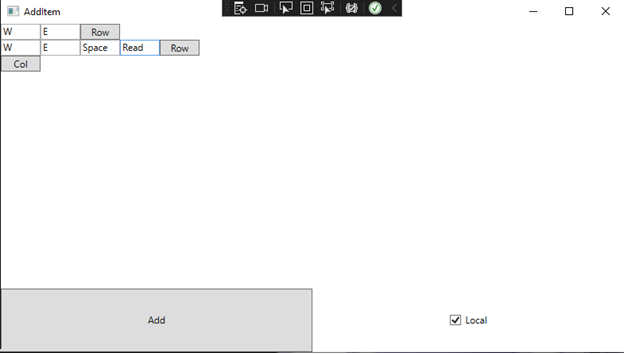
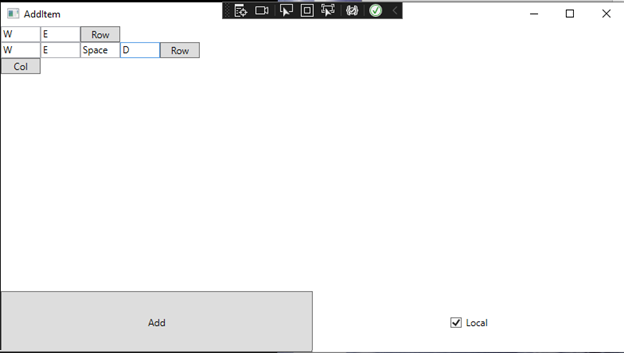
Document added

diff --git a/Document/FullGuide.md b/Document/FullGuide.md
@@ -1,0 +1,263 @@
+# My Asisstent повниий гайд
+---
+
+
+## _Команди_  (**Command**)
+---
+
+Як і було вказано в кроткому гайду ця сторінка використовується для  додання команд трігерів та задання певної логіки для них.
+
+
+![Загальний вигляд вікна:](https://github.com/MaksBerkutov/MyAsistentNew/blob/master/ImageGit/CodeProject.png)
+
+Кнопка “*AddMenu*” використовується для виклику меню “_Додавання команд_”.
+Розглянемо синтаксис виводу команд:
+
+![синтаксис виводу команд:](https://github.com/MaksBerkutov/MyAsistentNew/blob/master/ImageGit/CodeProjectOutputInfo.png)
+
+## Додавання команд
+---
+
+![Загальний вигляд вікна:](https://github.com/MaksBerkutov/MyAsistentNew/blob/master/ImageGit/CreateCommandBox.png)
+
+Блок **Main** дає змогу керувати основними функціями як:
+-	Додати команду тріггер.
+-	Видалити (***Delete***) вибрану дію в ***AllCommand***.
+-	Додати (***Add***) додати команду та дії для неї.
+-	Закрити(***Close***) закрити вікно без збереження. 
+
+Блок **Activity** це всі можливі дії на команду:
+-	***Arduinos*** послати команду на ардуино.
+![Вигляд вікна](https://github.com/MaksBerkutov/MyAsistentNew/blob/master/ImageGit/Arduinos.png)
+
+1. тут будуть відображатись всі команди для ардуіно 
+2.  тут буде потрібно вибрати плату зі списку всіх під’єднаних плат.
+3.  зберегти. 
+-	**ArduinoReadDate** май же те саме але ще отримуємо результат який буде промовляти програма.
+![Вигляд вікна](https://github.com/MaksBerkutov/MyAsistentNew/blob/master/ImageGit/ArduinoReadDate.png)
+
+В текстове поле потрібно написати текст який повинна промовити програма але замість значень які прийдуть з модуля треба написати назву змінної у `квадратних дужках`!
+А також обрати плату і команду в правому боці так як і в  ***Arduinos***.
+- ***Path*** запуск конкретної програми.
+
+![Вигляд вікна](https://github.com/MaksBerkutov/MyAsistentNew/blob/master/ImageGit/Path.png)
+
+В поле для вводу тексту можливо ввести путь до файлу або ж натиснути на кнопку `Pаth` яка відкриє файловий діалог для вибору файлу .
+
+Перемикач “***Local Machine***” встановлю буде запускатися ця програма на комп’ютері на якому зараз встановлений сервер або ж на віддаленому комп’ютері.
+
+-	***Keyboard*** створений для емуляції клавіатури.
+
+![Вигляд вікна](https://github.com/MaksBerkutov/MyAsistentNew/blob/master/ImageGit/Keyboard1.png)
+
+При натисканні на Row буде додаватися одна клітина по горизонталі. 
+
+При натисканні на Cow буде додаватися одна клітина по вертикалі. 
+
+Клавіші будуть об’єднуватися в клітини по горизонталі і йти далі поки не закінчяться елементи. Для додавання треба два рази клацнути по пустому полю, а після того як з’явиться текс `Read` натиснути на клавішу яку ви хочете записати нижче приклад.
+
+
+![Вигляд вікна](https://github.com/MaksBerkutov/MyAsistentNew/blob/master/ImageGit/Keyboard2.png)
+![Вигляд вікна](https://github.com/MaksBerkutov/MyAsistentNew/blob/master/ImageGit/Keyboard3.png)
+![Вигляд вікна](https://github.com/MaksBerkutov/MyAsistentNew/blob/master/ImageGit/Keyboard4.png)
+
+Для перезапису потрібно також клацнути два рази. Для видалення натиснути раз лівою кнопку миші.
+- ***Script*** (У розробці)
+- ***Voice*** використовуеться для озвучки асистентом.
+
+![Вигляд вікна](https://github.com/MaksBerkutov/MyAsistentNew/blob/master/ImageGit/Voice.png)
+
+Все просто, в текстове поле вводимо команду яку промовить асистент.
+
+Якщо в тексті буде `$` то це отримати поточну дату. 
+
+Якщо в тексті буде `@` то це отримати поточний час. 
+
+## _Журнал_ (**Logs**)
+---
+Журнал введеться для збереження та фіксування основних помилок попереджень та меседжів. Являє собою щось накштаут консолі або термінала. Має функціонал для написання команд, але базові команди як були так і залишилися можливо з оновленням буде і підрамки більшої кількості програм.
+
+![Вигляд вікна](https://github.com/MaksBerkutov/MyAsistentNew/blob/master/ImageGit/Logs.png)
+
+Перший блок це дата та час, далі меседж після цього статус.
+
+## _Скрипти_ (**Script**)
+---
+
+Дуже складний механізм, принципом якого є інтегрувати сторонній код в програму під час її виконання. У редакторі є блок Файл який має пункти :
+-	`Новий проект` створення проекту.
+-	`Відкрити проект` відкрити існуючий проект, а також показує 5 останніх створених файлів.
+-	`Зберегти` збереження коду.
+
+А також блок Отладка:
+-	`Зібрати` спроба скомпілювати файл.
+-	`Запустити` спроба запуска коду.
+
+![Вигляд вікна](https://github.com/MaksBerkutov/MyAsistentNew/blob/master/ImageGit/Script.png)
+
+![Вигляд вікна](https://github.com/MaksBerkutov/MyAsistentNew/blob/master/ImageGit/CreateScript.png)
+
+## _Налаштування_ (**Settings**)
+---
+
+### _Головні налаштування_ (**Main**)
+
+- Перший випадаючи список дає змогу вибрати язик для прослухування речі. 
+- Другий дає змогу вибрати список для відтворення голосу. 
+- Перший перемикач (Озвучивать логи) відповідає за чи буде промовляти записи з журналу. 
+- Другий перемикач фактично робить теж саме але буде промовляти тільки меседжі.
+- Список номер 5 вказується те яка фразу буде промовлятися (якщо ввімкнений перемикач) 
+- Під полями 6 та 7 вказується час через який буду збереження та скількі сервер буде чекати відповіді від модуля (чим слабший зв'язок тим більше треба буде чекати). 
+
+![Вигляд вікна](https://github.com/MaksBerkutov/MyAsistentNew/blob/master/ImageGit/Settings_Main.png)
+
+### _Налаштування мережі_ (**Network**)
+
+Блок “***Server Settings***” дозволяє налаштувати Ip адрес та порт на який будуть підключатися модулі та комп’ютери. Для коректного вибору Ip адресу скористайтеся командою `ipconfig` в консолі ось приклад:
+
+![Вигляд вікна](https://github.com/MaksBerkutov/MyAsistentNew/blob/master/ImageGit/ipconfig.png)
+
+В виводі шукаємо наш адаптер по якому відбувається підключення до мережі. І дивимось на **IPv4** адресу це і є наш Ip адрес в локальній мережі. Його і треба вказати у програмі.
+Після вибору Ip адресу треба вписати порт він може бути будь яким але він повинен буду вільним.
+
+Якщо у вас більше одного фізичного адаптера треба вибрати у випадючому списку коректний Ip адрес який збіжиться з консольним. 
+
+![Вигляд вікна](https://github.com/MaksBerkutov/MyAsistentNew/blob/master/ImageGit/Settings_Network1.png)
+
+![Вигляд вікна](https://github.com/MaksBerkutov/MyAsistentNew/blob/master/ImageGit/Settings_Network1.png)
+
+Блок Мережеві налаштування (**Network Settings**). 
+
+Нажаль в станом на 12.6.2023 _не_ _працює_ але в майбутньому дозволить створювати точку доступу до якої будуть підєднуватися модулі. Для цього треба буде ввести назву мережі (SSID) та пароль (PASWORLD).
+
+### _Налаштування модулів_ (**Arduino**)
+
+Все що дозволяє це переглянути всі підключенні плати, так їх команди (команди з припискою  `“_REC” ` кажуть про те що команда повертає якісь дані).
+
+![Вигляд вікна](https://github.com/MaksBerkutov/MyAsistentNew/blob/master/ImageGit/Settings_Arduino.png)
+
+### _Налаштування локального веб серверу_ (**Local Web Server**)
+- Блок `“Log Web Server”` з назви вже зрозуміло що тут буде запустуватися журнал веб серверу .
+- Блок `“Main Settings Web Server”`  головні налаштування веб серверу.
+- Перший перемикач відповідає за ввімкнення та вимкнення веб серверу.
+- Друге текстове поле це адреса серверу в мережі.
+- Третє текстове поле це шлях до папки за сайтом (можливо завантажити або зробити самому інструкція до створення буде написана після завершення написання основного коду  ).
+
+![Вигляд вікна](https://github.com/MaksBerkutov/MyAsistentNew/blob/master/ImageGit/Settings_LWS.png)
+![Вигляд сайту](https://github.com/MaksBerkutov/MyAsistentNew/blob/master/ImageGit/Settings_LWS_Site.png)
+![Bигляд сторінки сайту](https://github.com/MaksBerkutov/MyAsistentNew/blob/master/ImageGit/Settings_LWS_Site1.png)
+
+### _Ін'єкції_ коду (**Inject**)
+Ін’єкції коду дозволяють писати складні прикладні програми до серверу. Має базову зашиту від злому також дозволяє розширити функціонал асистента до безкінечності.
+
+Що для цього потрібно:
+-	Базові знання мови C#.
+-	Створення профілю на сервері.
+-	Стабільний зв'язок прикладної програми з сервером (краще за все запускати на тому ж пристрої на якому працює сервер ).
+Самий простий сценарій це написати програму, скомпілювати . Шлях до скомпільованого файлу прописати на команду тріггер. Після того як користувач промовить команду сервер запустить файл вашого коду який під'єднаеться до серверу і виконає певні дії.
+
+![Вигляд вікна](https://github.com/MaksBerkutov/MyAsistentNew/blob/master/ImageGit/Settings_Inject.png)
+
+Перший перемикач вмикає та вимикає сервер. Другий перемикач дозволяє відкрити доступ до глибоких налаштувань які дають змогу встановити Ip та порт для під’єднання.
+Далі два поля для уведення тексту за допомогою них та кнопки “***Add***” додаються нові профілі (на один профіль може під єднатися тільки одна прикладна програма після від’єднання програми профіль знову буде вільним). В першому полі вводиться  логін в іншому пароль.
+
+Кнопка  “***Delete***” дозволяє видалити вибраний профіль в модулі “***All Users***”.
+
+#### ***Бібліотека***
+
+Для початку написання коду потрібно скачати бібліотеку з репозиторію проекту та додати його в ваш проект.
+Прикладка створення підключення 
+```csharp
+var Worker = new Connector.Connector("admin", "admin").GetConnection().GetWorker();
+```
+В прикладі прикладна програма під'єднується до сервера на профіль за логіном та паролем “**admin**”.
+Актуальний функціонал можливо подивитися в інструкції до ін’єкцій.
+
+На даний момент є три функції :
+
+- `void Voice(string VoiceToSpech)` Ця функція дозволяє заставити сервер промовити фрау яку ви напишете.
+- `void SendArduino(string NamePlate, string Command)` Ця функція відправляє команду на модуль( для цього треба знати назву плати та команду все це вказується в прошивці до модуля).
+- `AsistenetVariableManager SendArduinoRecive(string NamePlate, string Command)` Фактично робить теж саме але ще отримує відповідь. 
+
+##### `AsistenetVariableManager` -  як отримати данні?
+
+Всі данні приходять у вигляді тексту для того щоб отримати данні вам потрібно знати назву змінної яка теж вказується в прошивці. 
+
+Ось приклад :
+```csharp
+var result = Worker.SendArduinoRecive("Arduino1", "LIGHT_REC");
+                if (result["Status"].Value == "True") 
+                    Worker.Voice("Свет в кухне включён");
+
+```
+
+В прикладі ми отримуємо відповідь з модуля далі отримуємо змінну   Status якщо вона має значення True то сервер промовить "Свет в кухне включён".
+
+Повний приклад коду приведений нижче :
+
+```csharp
+using System;
+using System.Collections.Generic;
+using System.Linq;
+using System.Text;
+using System.Threading.Tasks;
+
+namespace ConsoleApp7
+{
+    internal class Program
+    {
+        static void Main(string[] args)
+        {
+            try
+            {
+                var Worker = new Connector.Connector("admin", "admin").
+                                        GetConnection().
+                                                        GetWorker();
+
+                var result = Worker.SendArduinoRecive("Arduino1", "LIGHT_REC");
+                if (result["Status"].Value == "True") 
+                    Worker.Voice("Свет в кухне включён");
+                
+                Worker.Voice("Иньекция прошла успешно");
+                while (true) { Worker.Voice(Console.ReadLine()); }
+            }
+            catch (Exception ex )
+            {
+
+                Console.WriteLine(ex.Message);
+            }
+            
+
+        }
+    }
+}
+
+
+```
+## _Налаштування телеграм боту_ (**Telegram Settings**)
+---
+
+Телеграм бот використовується для налаштувань, отримання останніх записів в журналі, а також для емуляції команд тріггерів. 
+Все що потрібно для його налаштування це токен який можливо отримати у телеграм боті [Bot Father]([xxx](https://t.me/BotFather)), а потім вписати його у текстове поле `Api Key`.
+
+Після коректного запуску цього модуля в вашому телеграм боті буде працювати лише одна команда `/id`. 
+Котра наддасть вам основну інформацію про ваш профіль, вам потрібен лише ваш телеграм id його потрібно вписати на натиснути на кнопку “**Add**” це добавить ваш id у список “білих” юзерів  (“**White List ID**”) котрих бот не буде ігнорувати. Далі потрібно боту потрібно відправити команду `/start`. 
+
+
+
+![Вигляд вікна](https://github.com/MaksBerkutov/MyAsistentNew/blob/master/ImageGit/Settings_TBot.png)
+![Вигляд боту](https://github.com/MaksBerkutov/MyAsistentNew/blob/master/ImageGit/Settings_TBot1.png)
+
+- Вкладка “**Емуляція команд**” дозволяє виповнити певну послідовність дій назначену на команду тріггер.
+
+![Вигляд боту](https://github.com/MaksBerkutov/MyAsistentNew/blob/master/ImageGit/Settings_TBot2.png)
+
+Для цього потрібно натиснути на команду котру треба зімітувати.
+- Вкладка “**Базова інформація**” містить інформацію про сервер.
+- 
+![Базова інформація боту](https://github.com/MaksBerkutov/MyAsistentNew/blob/master/ImageGit/Settings_TBot3.png)
+
+
+Кнопка “**Получить все логи**” в результаті ви отримаєте весь журнал з серверу.
+
+![Базова інформація боту](https://github.com/MaksBerkutov/MyAsistentNew/blob/master/ImageGit/Settings_TBot4.png)

diff --git a/Readme.md b/Readme.md
@@ -1,0 +1,80 @@
+## My Assistent _(Система розумного будинку)_
+
+
+
+Система розумного будинку написана на мові C#/C++ та використовує технологію WPF (Windows Presentation Foundation).
+
+### Огляд
+
+Основна ідея цієї системи полягає в тому, щоб надати можливість створювати складні та прості системи управління з мінімальними навичками в програмуванні. Вона створена для того, щоб люди з мінімальними навичками в програмуванні могли легко налаштовувати та керувати своїм будинком або офісом.
+
+Система дозволяє об'єднувати багато модулів та комп'ютерів в єдину екосистему, де центральним елементом є сервер, а кожен модуль є окремим пристроєм, який підпорядковується серверу та виконує його команди.
+
+### Основні можливості
+
+Основні можливості системи розумного будинку включають:
+
+- Автоматизацію освітлення
+- Регулювання температури
+- Контроль доступу
+- Забезпечення безпеки
+- Керування аудіо- та відеосистемами
+- Інтеграцію інших функцій за бажанням користувача
+
+### Гнучкість та розширюваність
+
+Важливим аспектом системи є її гнучкість та розширюваність. Користувачі можуть додавати нові модулі та функціональність, інтегруючи їх у існуючу систему. Це дозволяє створювати налаштовані рішення, що відповідають унікальним потребам кожного користувача.
+
+### Користувацький інтерфейс
+
+Завдяки красивому та інтуїтивно зрозумілому користувацькому інтерфейсу, система розумного будинку забезпечує комфортну взаємодію з користувачем. Вона надає зручні інструменти для налаштування та керування всіма аспектами домашньої автоматизації.
+
+### Висновок
+
+У результаті, система розумного будинку є інноваційним рішенням, яке дозволяє людям створювати сучасні та зручні системи управління своїм будинком або офісом, забезпечуючи їм комфорт, безпеку та ефективність.
+
+## Інсталяція
+
+Для успішної інсталяції проекту вам знадобиться комп'ютер з операційною системою Windows 10, а також необхідні модулі та завантажений проект. Дотримуючись наступних кроків, ви зможете легко налаштувати середовище:
+
+1. Розпакуйте архів з проектом на вашому комп'ютері.
+2. Інсталюйте файл `SpeechPlatformRuntime.msi`, який знаходиться у шляху `...\Includes\Runtime\`.
+3. Інсталюйте файл `x86_MicrosoftSpeechPlatformSDK.msi` (для розробки), який знаходиться у шляху `...\Includes\SDK\`.
+4. Залежно від мовних налаштувань, ви можете встановити один або два мовних пакети, які постачаються разом з програмою (наприклад, En\Ru).
+
+## Коротка інструкція
+
+# Пресети (тимчасово недоступно)
+У цій програмі зберігаються користувацькі та локальні пресети для деяких програм, ігор та іншого.
+
+# Команди
+Ця сторінка дозволяє назначати команди для виконання. Команди прив'язуються до вибраної мови, тому можна назначати довільну кількість команд для кожної мови.
+
+# Логи
+Тут відображаються журнали роботи програми, які також зберігаються у файлі. Журнали мають три типи:
+1) _Warning_ - Попередження
+2) _Error_ - Помилка
+3) _Message_ - Повідомлення
+
+# Налаштування
+Ця вкладка містить налаштування програми.
+
+# Силки
+
+- [Повна докуметація](https://github.com/MaksBerkutov/MyAsistentNew/blob/master/MyAsistent/Document/FullGuide.md)
+
+## Автори
+
+`Автор проекту`
+
+**Maks Berkutov**
+
+- [Telegram](https://t.me/i37Holodok73i)
+- [GitHub](https://github.com/MaksBerkutov)
+
+`Дизайнер проекту`
+
+**Skyler Designer**
+
+- [Telegram](https://t.me/Skyler_designer7)
+- [Behance](https://www.behance.net/skylerdesigner)
